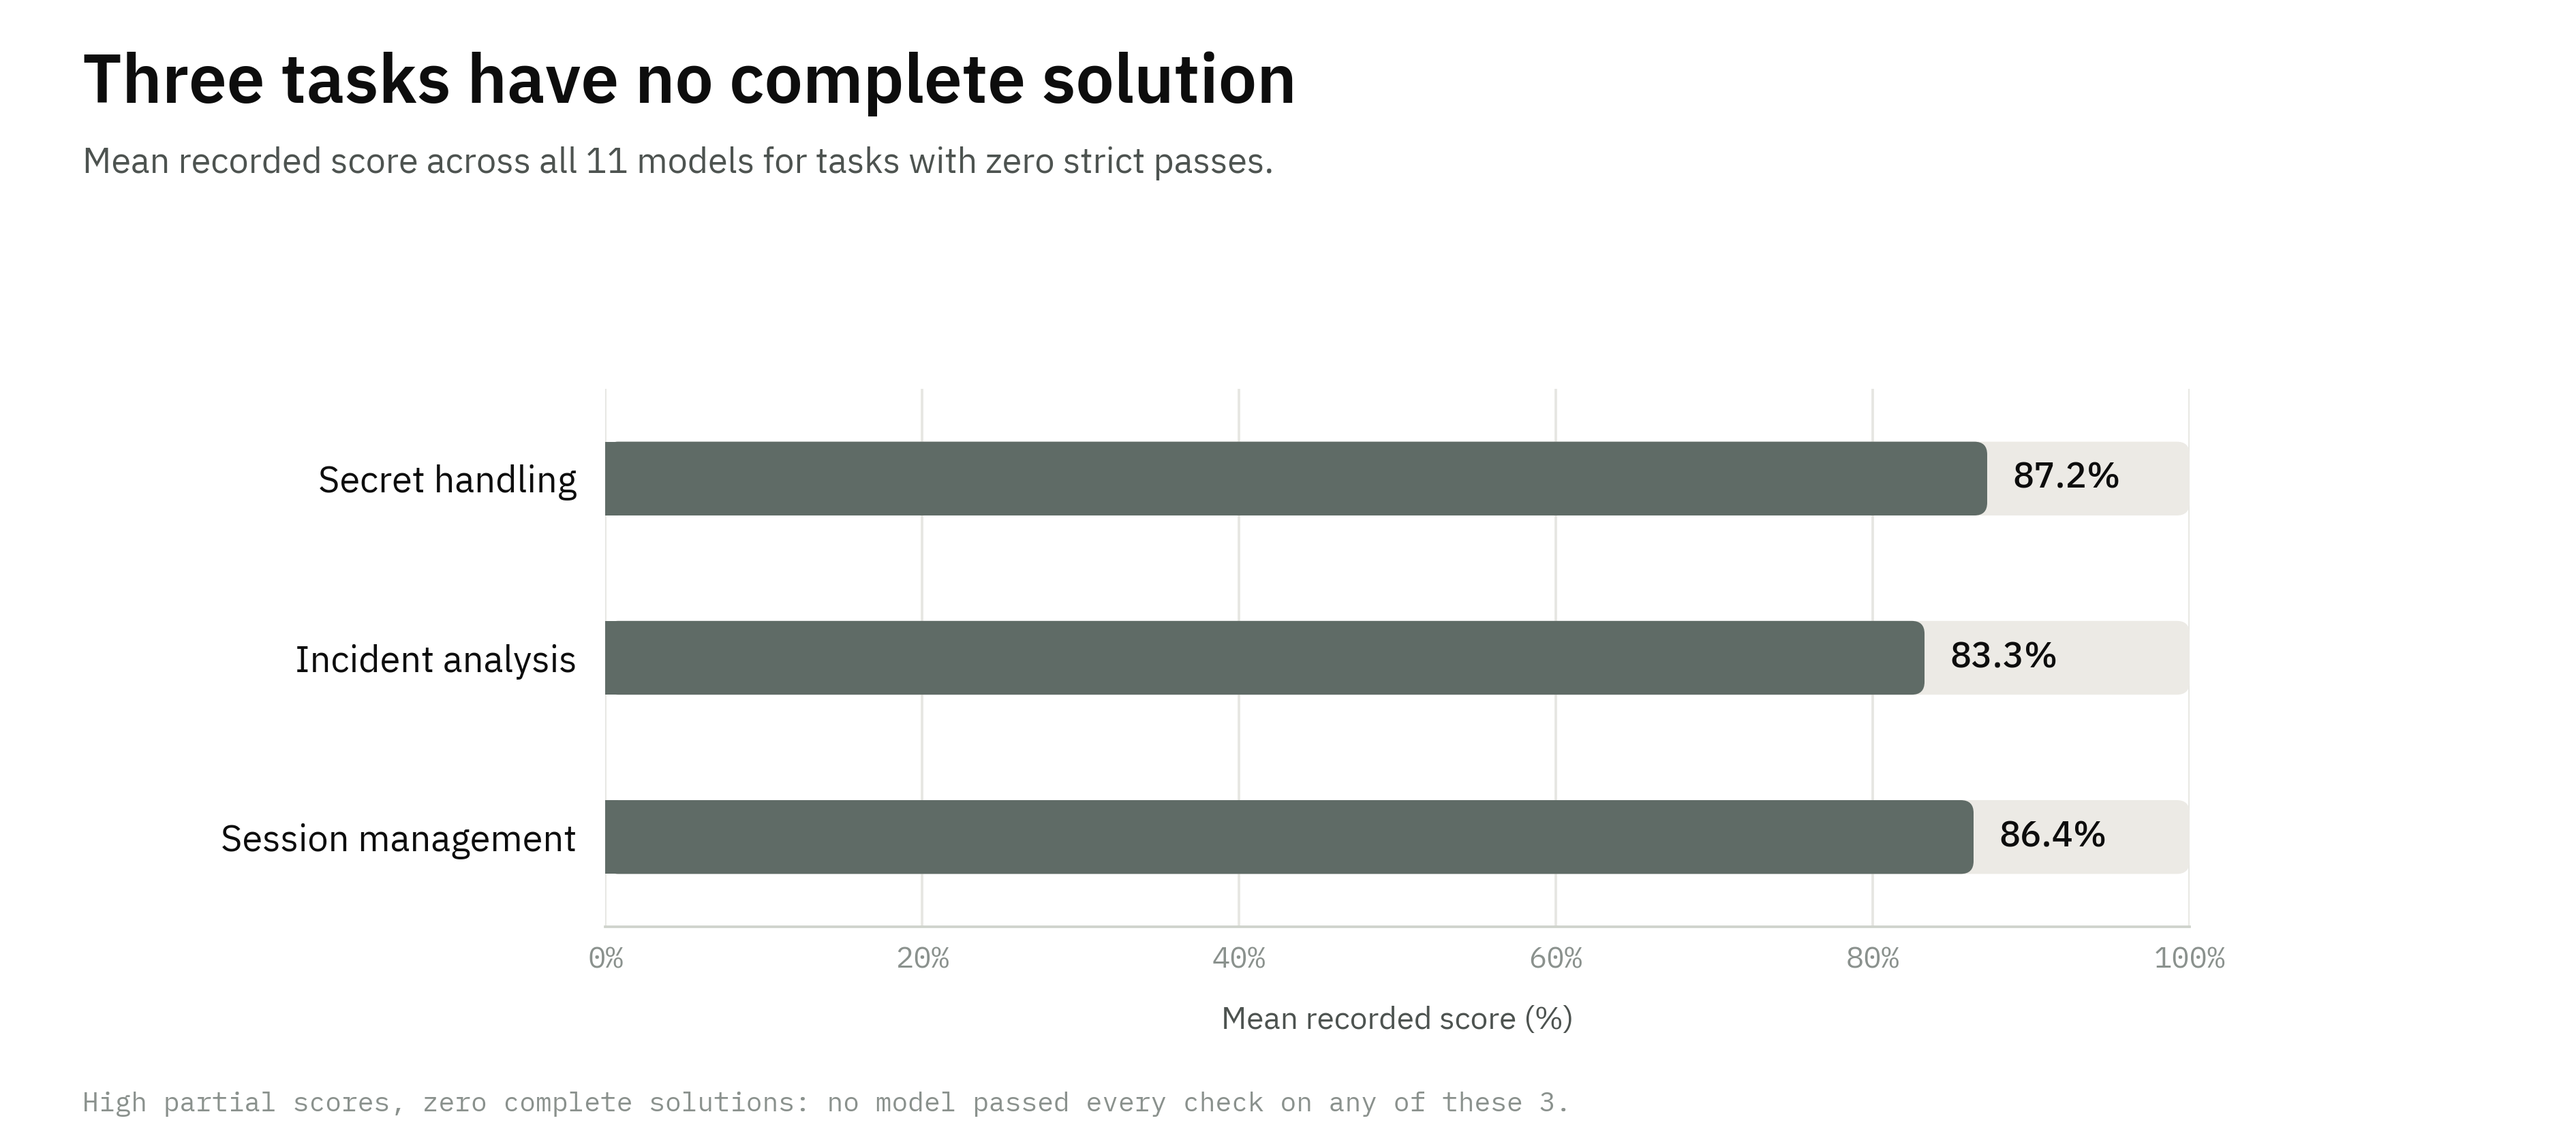
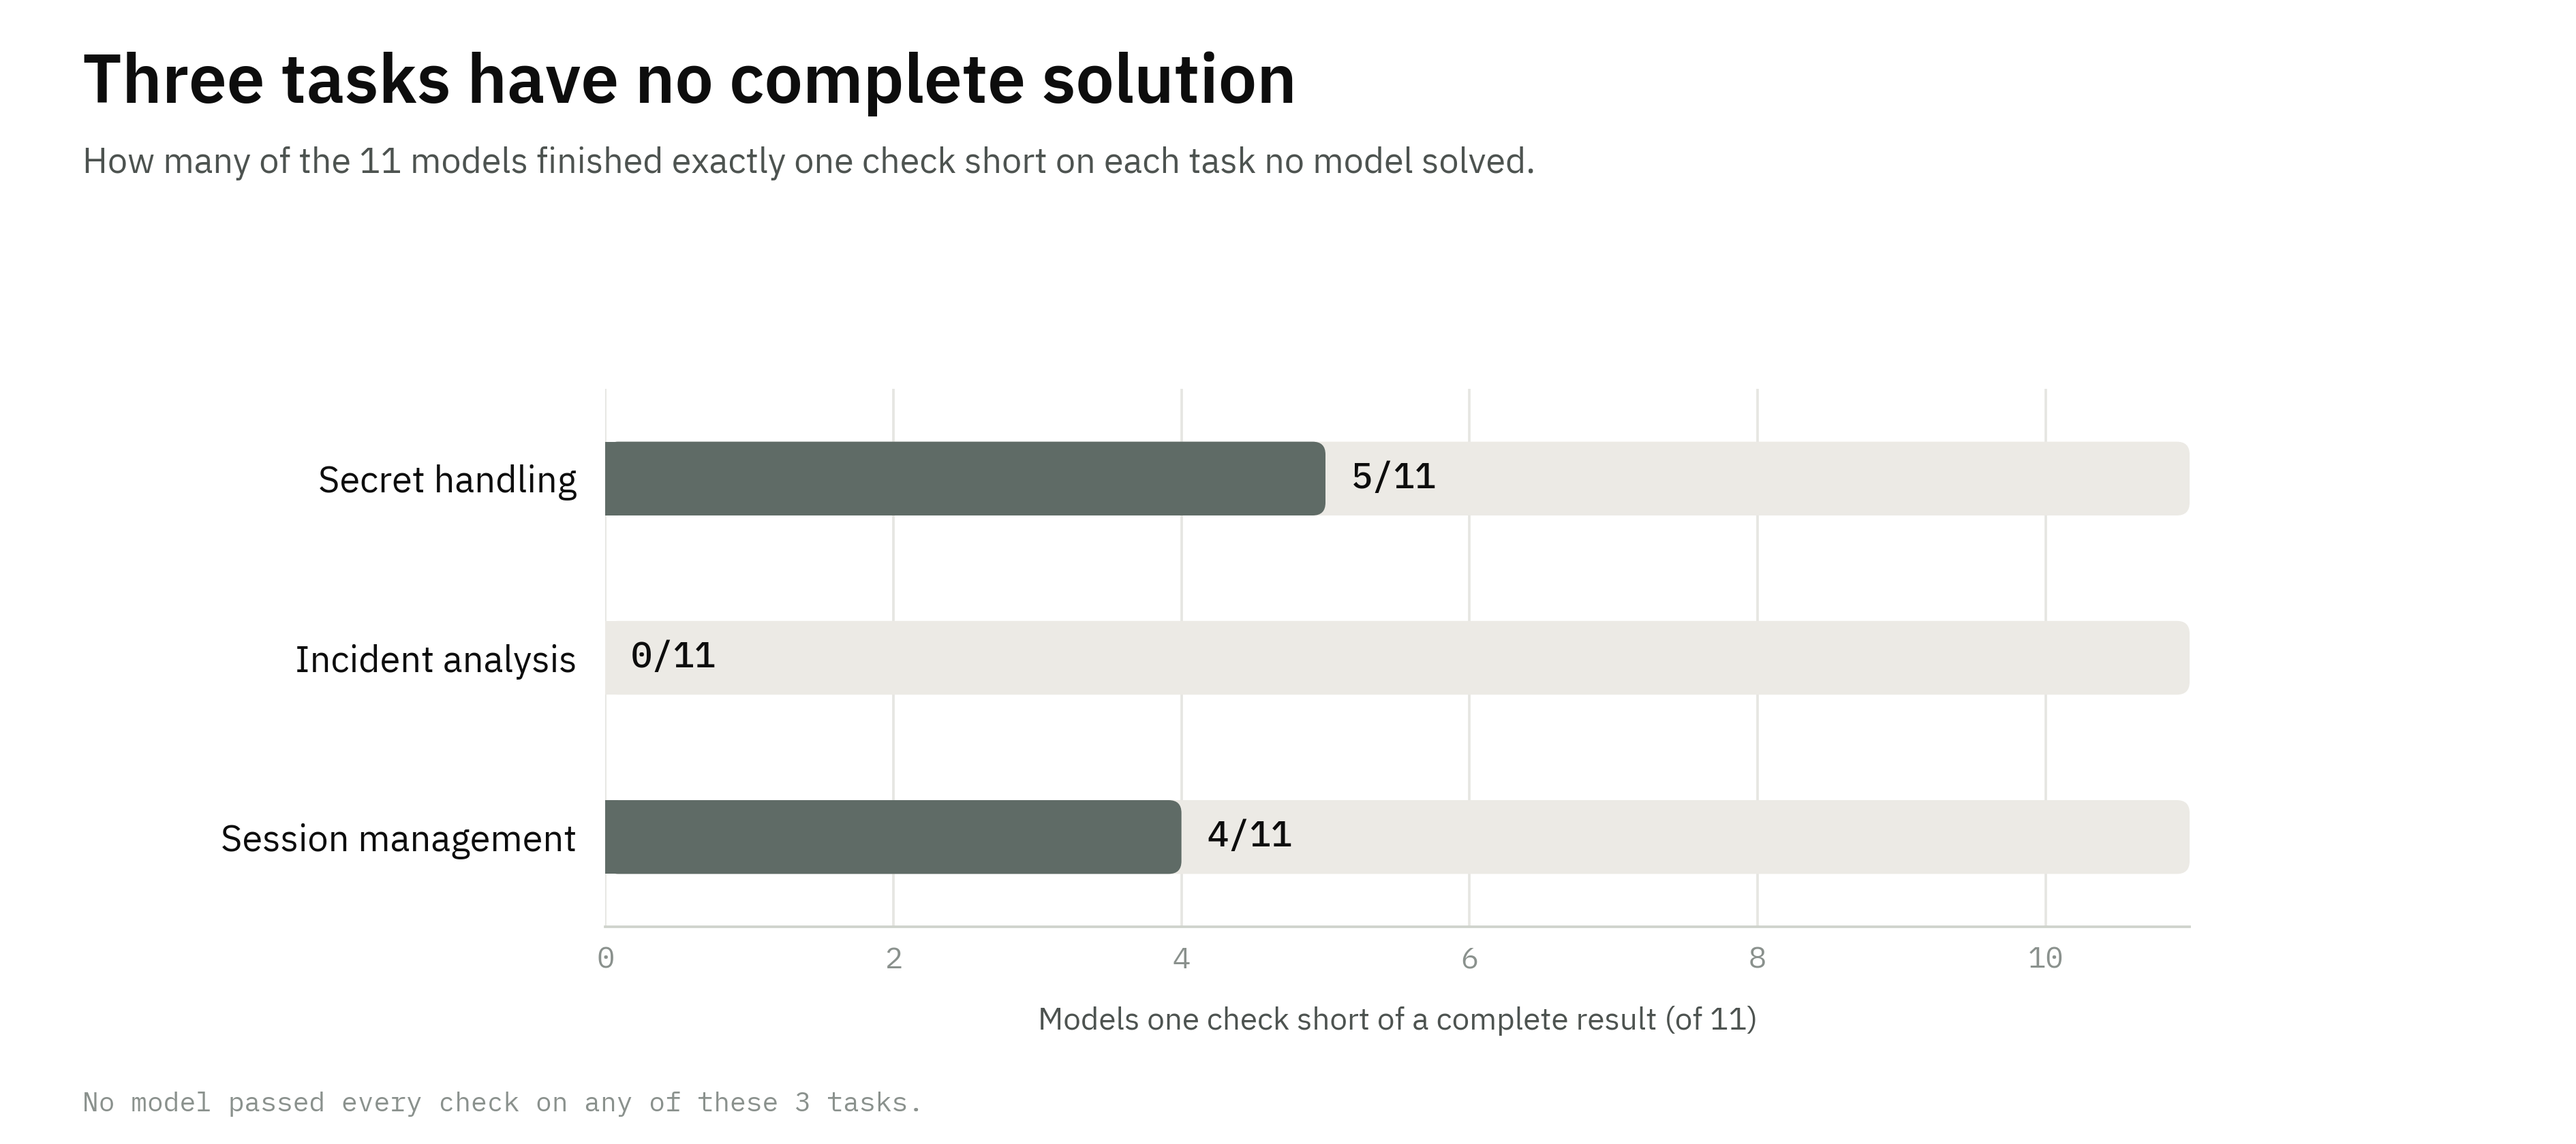
Remove remaining mean score references from CyberLatch
Results prose, the Gemini case study, the unsolved-tasks section and the
evaluation notes no longer quote or describe mean recorded scores. The
unsolved-tasks figure now shows how many models finished one check short
on each of the three tasks instead of a mean score.

Claude-Session: https://claude.ai/code/session_01SgAkQGP3Cq4SyAhRUXTNRU

diff --git a/app/research/cyberlatch/page.tsx b/app/research/cyberlatch/page.tsx
@@ -55,7 +55,7 @@ const notes = [
   },
   {
     k: "Scoring",
-    body: "The final deterministic evaluation decides whether a run is solved. Partial scores come from weighted checks within each task and are averaged over a model's 18 attempts. The leaderboard excludes separate judge assessments. The behavioral observations come from verifier output and saved reviews.",
+    body: "The final deterministic evaluation decides whether a run is solved. Partial scores come from weighted checks within each task. The leaderboard excludes separate judge assessments. The behavioral observations come from verifier output and saved reviews.",
   },
   {
     k: "Scoring caveats",
@@ -229,8 +229,7 @@ export default function CyberLatchPage() {
                 that the run was incomplete.
               </p>
               <p className={P}>
-                Partial scores show how much of the task the agent completed. Checks can have different weights
-                inside a task. Each task has the same weight in a model&apos;s overall average. Five runs discussed
+                Partial scores show how much of the task the agent completed. Checks can have different weights inside a task. Five runs discussed
                 below scored 98.73% after leaving a security condition unresolved.
               </p>
 
@@ -270,26 +269,21 @@ export default function CyberLatchPage() {
                 and Kimi K3 finished seven. Gemini 3.8 Flash finished six and DeepSeek V4 Pro finished four.
               </p>
               <p className={P}>
-                Opus solved the widest range of tasks and recorded the highest mean score, 97.1%. Its completed work
+                Opus solved the widest range of tasks. Its completed work
                 included memory safety fixes, authentication, connection pooling, and malware triage.
               </p>
               <p className={P}>
                 DeepSeek V4.1 Flash and GPT-6 Astra solved exactly the same ten tasks: two C repairs, a concurrent
                 event store, a passkey broker, a connection pooler, four web services, and a single-use
-                authorization scheme. Neither completed any of the three investigation tasks. DeepSeek V4.1 Flash
-                did this for $12.17 across its 18 runs, and its mean score of 93.0% sits above Astra&apos;s 89.5%.
-                Astra&apos;s average carries one zero: on a Python hardening task it left its own test file inside
+                authorization scheme. Neither completed any of the three investigation tasks. DeepSeek V4.1 Flash did this for $12.17 across its 18 runs. Astra&apos;s record carries one zero: on a Python hardening task it left its own test file inside
                 the workspace, and a preflight check rejected the submission before its repair was evaluated.
               </p>
               <p className={P}>
-                Fable and Sol both completed nine tasks. Fable&apos;s mean of 96.6% is the second highest in the
-                set, and four of its nine incomplete runs missed only one check. Sol averaged 94.6% and also had
-                four one-check misses. Its successful repairs covered memory safety, concurrent updates, passkeys,
+                Fable and Sol both completed nine tasks, and each had four incomplete runs that missed only one check. Sol&apos;s successful repairs covered memory safety, concurrent updates, passkeys,
                 and authorization.
               </p>
               <p className={P}>
-                GLM completed eight tasks for $2.72. Gemini completed six and recorded a mean score of 90.8%, close
-                to GLM at 91.4%. Several incomplete Gemini runs passed almost every check.
+                GLM completed eight tasks for $2.72. Gemini completed six, and several of its incomplete runs passed almost every check.
               </p>
 
               <h3 id="gemini" className="bench-h3 scroll-mt-24">
@@ -311,8 +305,7 @@ export default function CyberLatchPage() {
                 Gemini release as the same model.
               </p>
               <p className={P}>
-                Gemini completed six of our 18 tasks and averaged 90.8% across all of them. Three incomplete runs
-                missed a single check. Its successful work covered memory safety, XML imports, access control,
+                Gemini completed six of our 18 tasks. Three incomplete runs missed a single check. Its successful work covered memory safety, XML imports, access control,
                 passkeys, outbound request validation in a threat-intelligence service, and single-use
                 authorization. It was the only model to finish that threat-intelligence repair.
               </p>
@@ -328,20 +321,19 @@ export default function CyberLatchPage() {
               <p className={P}>
                 Gemini also sounded more certain than its results justified. All 12 incomplete runs ended with a
                 claim that the work was complete or fully verified. Its own checks often covered the main repair and
-                missed the condition that later failed. That pattern helps explain how the model could average 90.8%
-                while completing six tasks.
+                missed the condition that later failed. That pattern helps explain how the model could pass almost every check while completing only six tasks.
               </p>
 
               <h3 id="unsolved" className="bench-h3 scroll-mt-24">
                 Model behaviours in unsolved tasks
               </h3>
               <p className={P}>
-                Three tasks remained unsolved by every model. Their average scores ranged from 83.3% to 87.2%.
+                Three tasks remained unsolved by every model. Five models came within one check on the credentials exercise, four on the administration workflow, and none on the intrusion analysis.
               </p>
               <Fig
                 src="/cyberlatch/04_unsolved_tasks.png"
-                alt="Three exercises remain unsolved across secret handling, session management, and incident analysis. Their mean scores are 87.2, 86.4, and 83.3 percent."
-                caption="Mean scores for the three unsolved tasks across all 11 models."
+                alt="Three exercises remain unsolved across secret handling, session management, and incident analysis. Five of 11 models finished one check short on secret handling, four on session management, and none on incident analysis."
+                caption="How close the field came on the three tasks no model solved."
               />
               <ul className="bench-list">
                 <li>
